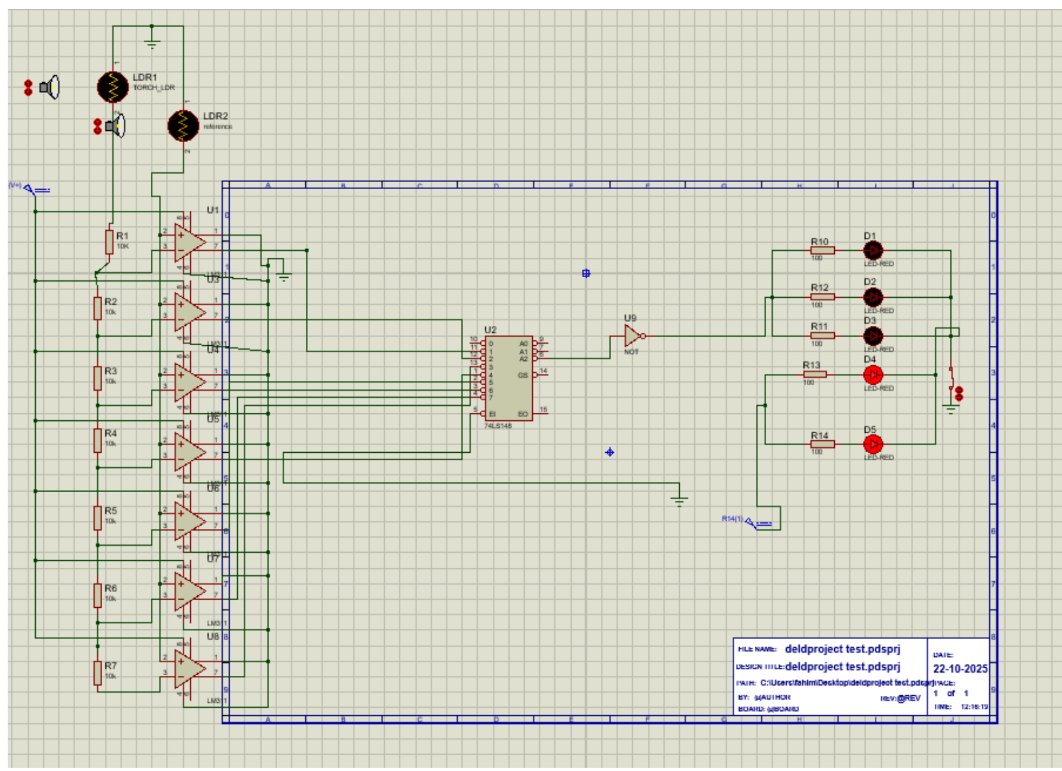
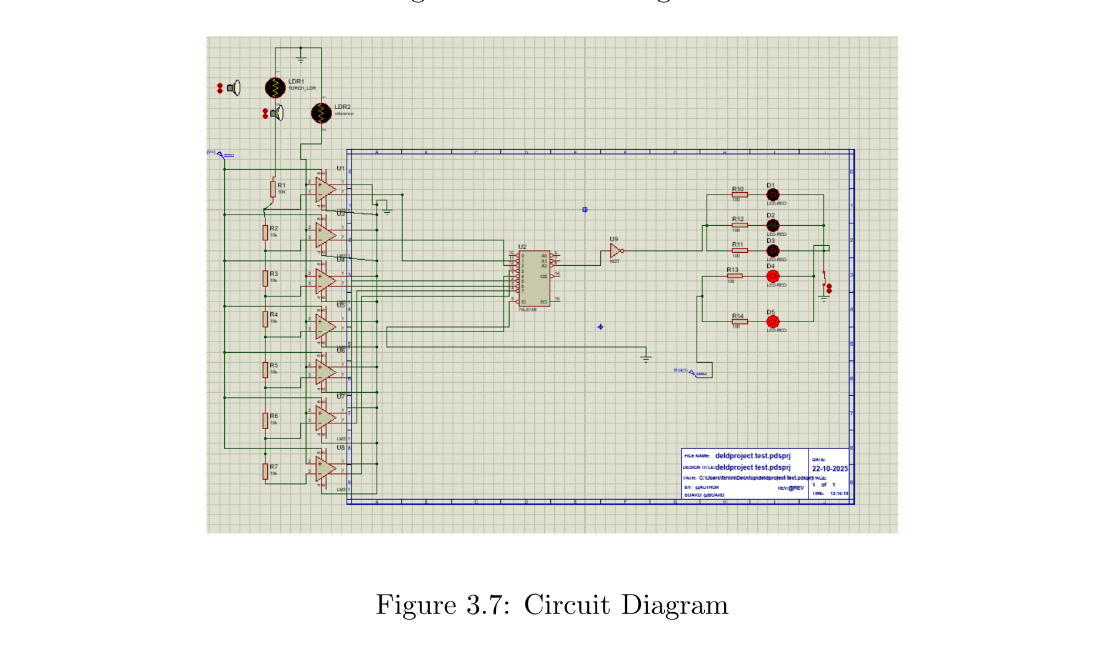
ed-manager-add

diff --git a/index.html b/index.html
@@ -48,6 +48,9 @@
         <h1 id="proj">Projects</h1>
      <div class="slider" >
       <div class="slides"id="slideContainer" >
+        <img class="slides img" src="./prop/ed.jpg">
+          <figcaption>ED-Manager</figcaption>
+          </figure>
         <figure>
           <img class="slides img" src="./prop/actionzone.jpeg">
           <figcaption>Web browsing</figcaption>
@@ -84,7 +87,7 @@
          <a href="https://drive.google.com/file/d/1f3MehODhw7mWw3tBPHwgQuFE6uXEihKC/view?usp=drivesdk"><img class="slides img" src="prop/cusat.jpg"></a>
           <figcaption>Space x</figcaption>
           </figure>
-          <a href="https://drive.google.com/file/d/1f3MehODhw7mWw3tBPHwgQuFE6uXEihKC/view?usp=drivesdk"><img class="slides img" src="prop/cusat.jpg"></a>
+          <a href="#"><img class="slides img" src="prop/cusat.jpg"></a>
           <figcaption>Space x</figcaption>
           </figure>
             
